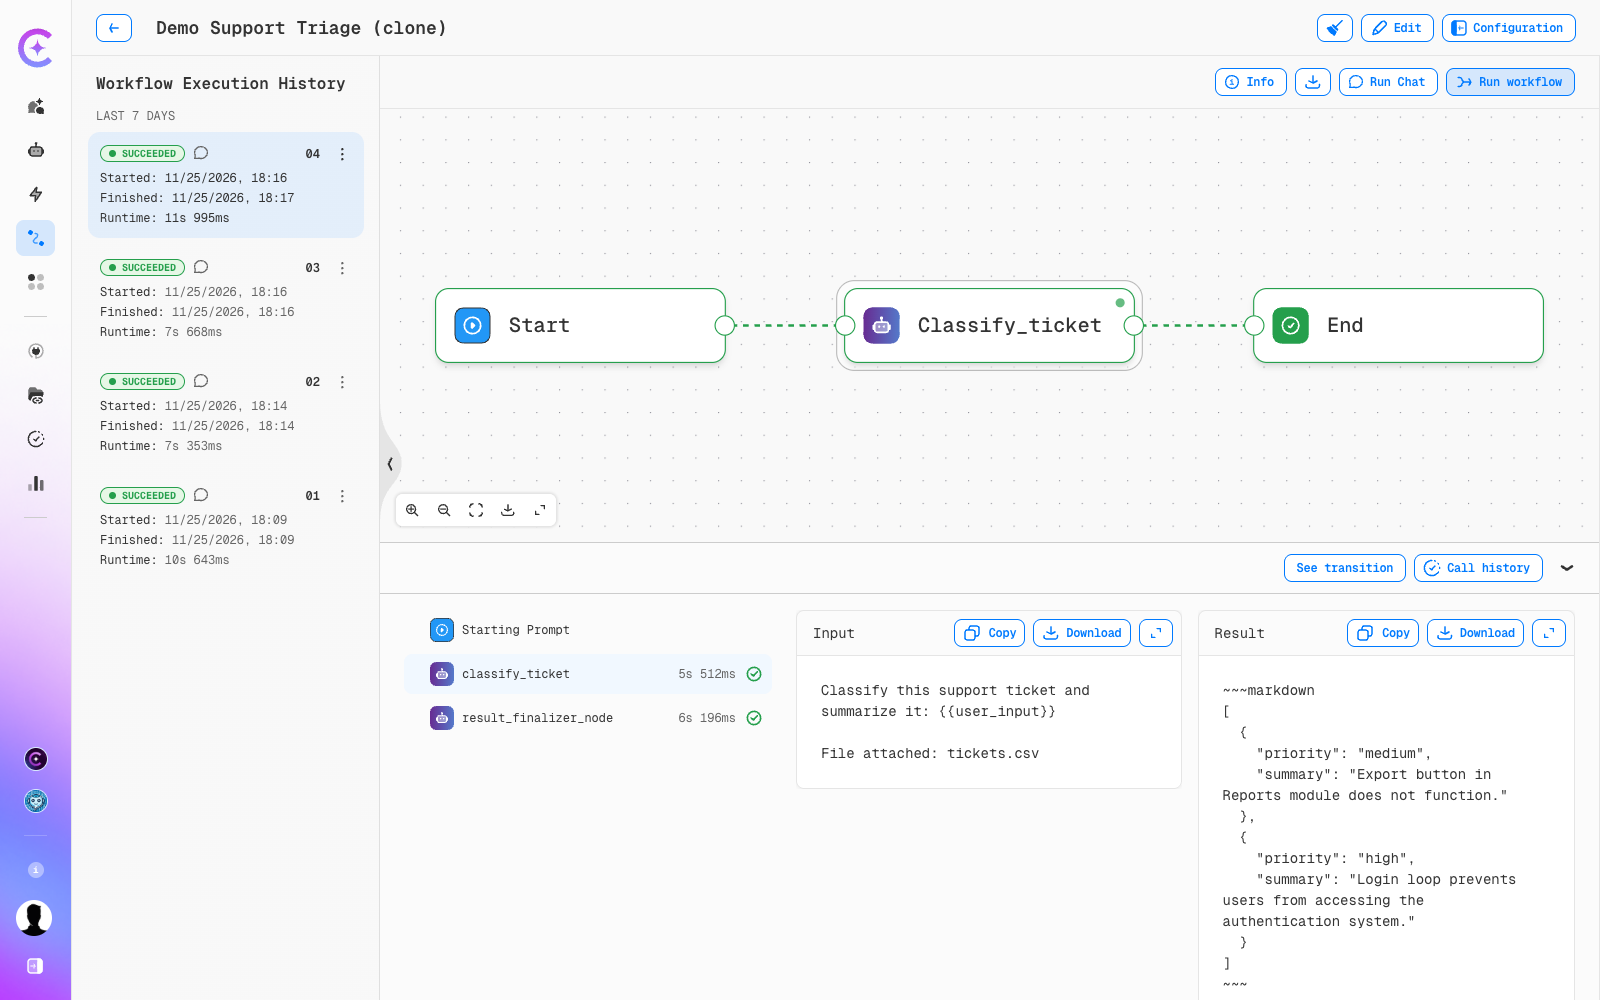
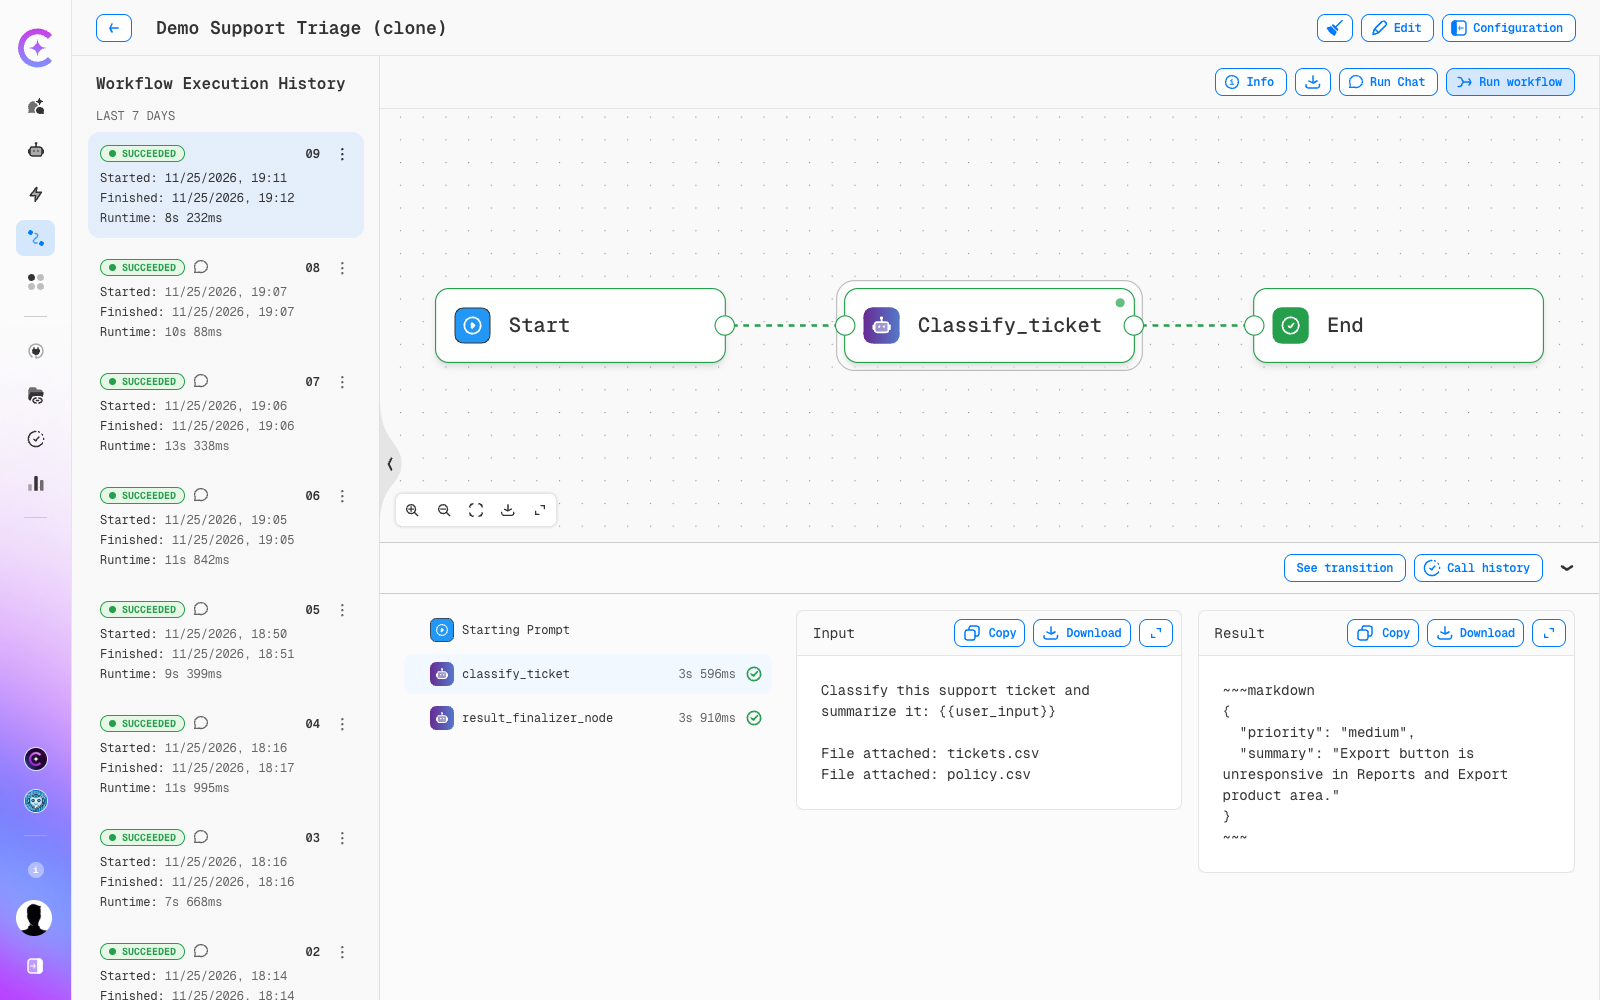
docs(user-guide): fix chat execution link and multi-file notes in workflows overview
Recapture the chat screenshot so the prompt, a short response and the
highlighted Open execution page icon are visible. Document that chat
mode passes only the first attached file, while the New Workflow
Execution window appends every file.

Generated with AI

diff --git a/docs/user-guide/workflows/workflows-overview.md b/docs/user-guide/workflows/workflows-overview.md
@@ -135,13 +135,13 @@ Launch workflows within a chat interface, preserving conversational context and 
 
    ![Workflow in chat mode](./images/workflows-overview/workflow-chat-interface.png)
 
-2. Enter your prompt in the chat interface
-
-   ![Workflow execution link](./images/workflows-overview/workflow-chat-execution-link.png)
+2. Enter your prompt in the chat interface and send it
 
 3. The workflow executes with your message as the initial input
 
-4. Monitor progress and view results in the chat
+4. Monitor progress and view results in the chat. The response shows the executed states and the workflow result. The highlighted **Open execution page** icon in the message action bar below the response opens the execution page (see the next section).
+
+   ![Chat with the prompt, the workflow response and the highlighted Open execution page icon](./images/workflows-overview/workflow-chat-execution-link.png)
 
 ### Opening the Execution Page from Chat
 
@@ -160,9 +160,13 @@ When running a workflow in chat mode, you can attach up to **10 files** to your 
 
 ![Chat input with multiple files attached before sending](./images/workflows-overview/workflow-chat-file-attachment.png)
 
-After execution completes, open the execution in **Workflow Execution History**. The input of a state contains a `File attached:` line with the file name:
+After execution completes, open the execution in **Workflow Execution History**. The input of a state contains one `File attached:` line per file that was passed to the execution. The screenshot shows a run started from the **New Workflow Execution** window with two files:
 
-![Workflow execution results showing analysis of multiple attached files](./images/workflows-overview/workflow-execution-multi-file-result.png)
+![State input with two File attached lines](./images/workflows-overview/workflow-execution-multi-file-result.png)
+
+:::note
+In the current release, a message sent in chat mode passes only the first attached file to the workflow execution, even though every chip is uploaded. To append several files to the task description, attach them in the **New Workflow Execution** window instead.
+:::
 
 **Supported file types and limits:**
 
@@ -174,7 +178,7 @@ After execution completes, open the execution in **Workflow Execution History**.
 
 **How files are available in workflow steps:**
 
-Each attached file is appended to the task description of every state:
+Each file passed to the execution is appended to the task description of every state:
 
 ```
 File attached: filename.ext
